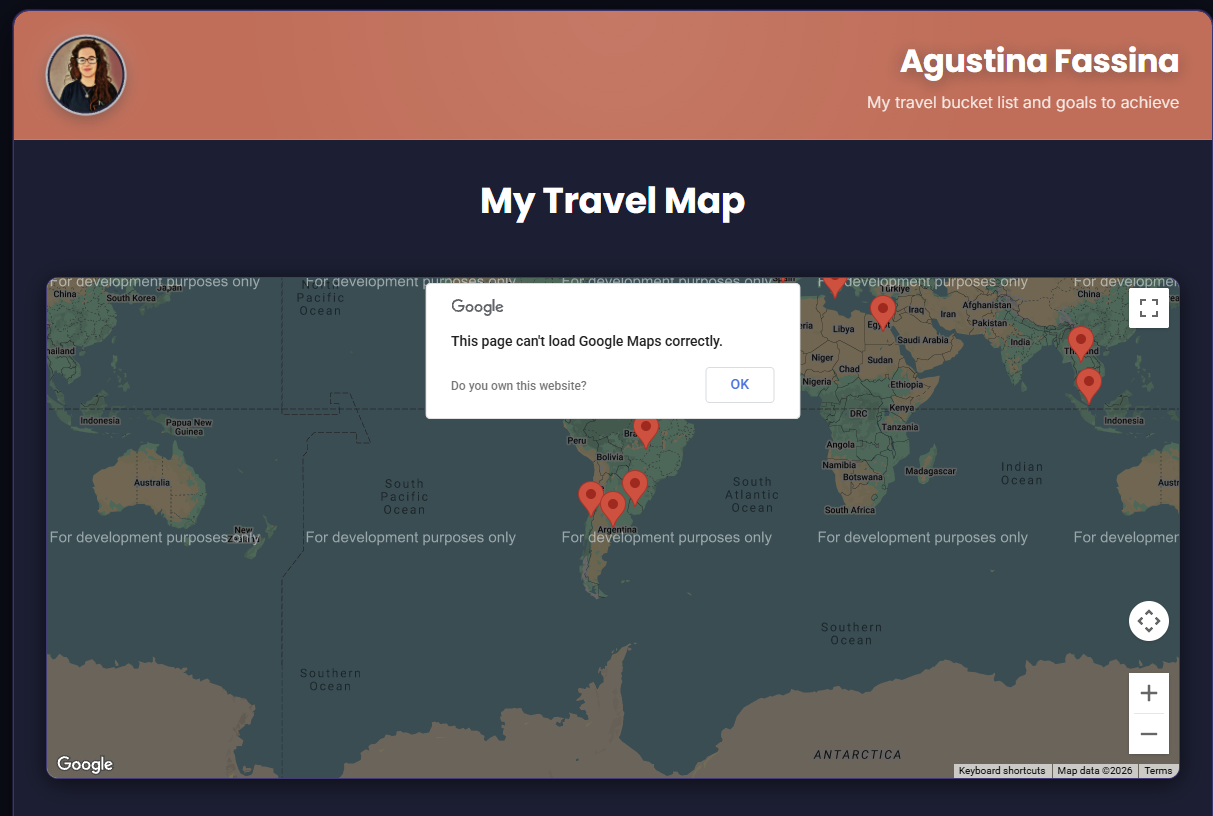
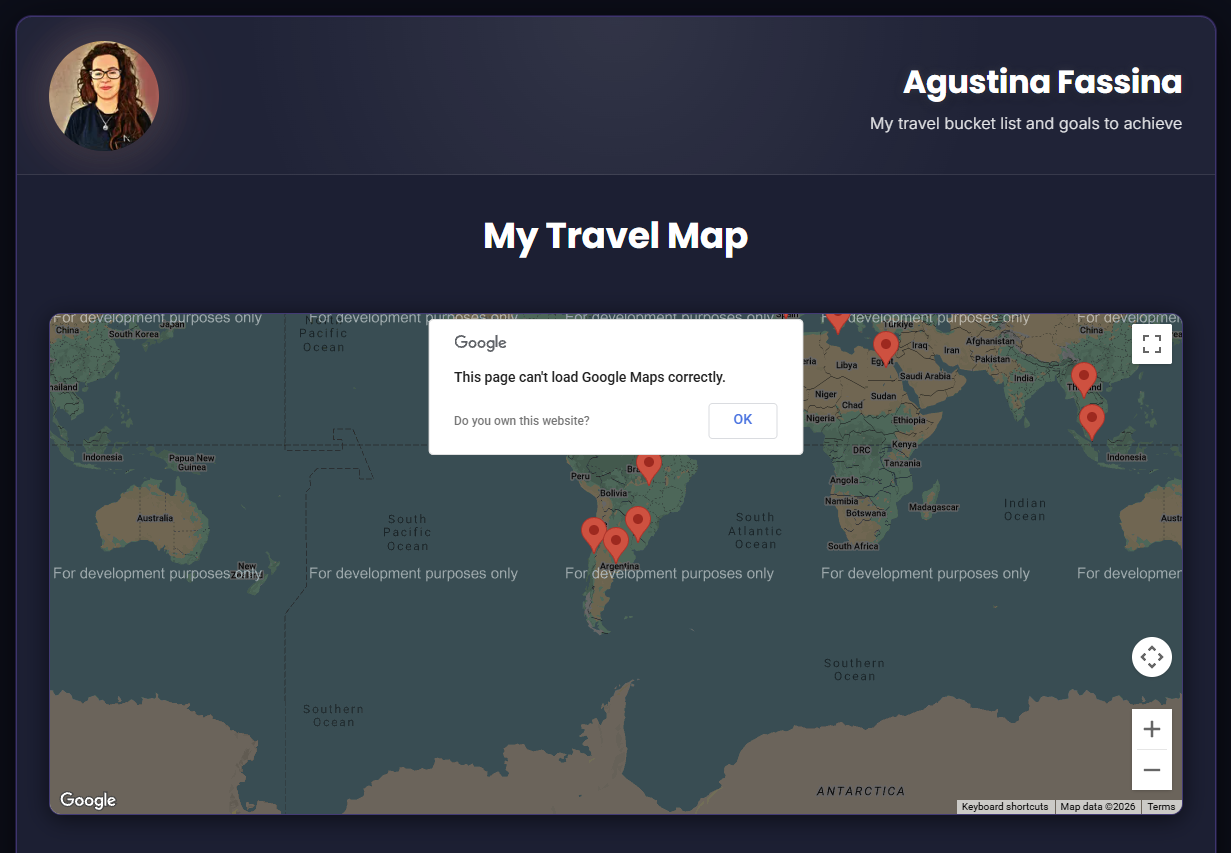
change in the background color

diff --git a/app/globals.css b/app/globals.css
@@ -93,7 +93,6 @@ body {
 
 /* Header Styles */
 .page-header {
-  background: #d66853;
   padding: 1.5rem 2rem;
   color: var(--text-primary);
   position: relative;
@@ -127,21 +126,19 @@ body {
 }
 
 .logo {
-  width: 80px;
-  height: 80px;
+  width: 110px;
+  height: 110px;
   border-radius: 50%;
-  border: 2px solid rgba(255, 255, 255, 0.5);
-  box-shadow: 0 4px 15px rgba(0, 0, 0, 0.3), 0 0 20px rgba(255, 255, 255, 0.2);
+  box-shadow: 0 6px 25px rgba(0, 0, 0, 0.25), 0 0 40px rgba(255, 255, 255, 0.15), 0 0 60px rgba(247, 108, 94, 0.2);
   object-fit: cover;
-  transition: transform 0.3s ease, box-shadow 0.3s ease;
-  background: var(--bg-card);
-  padding: 2px;
+  transition: transform 0.4s cubic-bezier(0.34, 1.56, 0.64, 1), box-shadow 0.4s ease, filter 0.4s ease;
+  filter: brightness(1.05) saturate(1.1);
 }
 
 .logo:hover {
-  transform: scale(1.05);
-  box-shadow: 0 6px 20px rgba(0, 0, 0, 0.4), 0 0 30px rgba(255, 255, 255, 0.3);
-  border-color: rgba(255, 255, 255, 0.7);
+  transform: scale(1.08) translateY(-2px);
+  box-shadow: 0 8px 30px rgba(0, 0, 0, 0.35), 0 0 50px rgba(255, 255, 255, 0.25), 0 0 80px rgba(247, 108, 94, 0.3);
+  filter: brightness(1.1) saturate(1.15);
 }
 
 .header-text {
@@ -889,8 +886,8 @@ body {
   }
 
   .logo {
-    width: 100px;
-    height: 100px;
+    width: 120px;
+    height: 120px;
   }
 
   .content-section {

diff --git a/app/page.tsx b/app/page.tsx
@@ -15,8 +15,8 @@ export default function Home() {
                 className="logo"
                 src="/agus_animada.PNG"
                 alt="Agus"
-                width={80}
-                height={80}
+                width={110}
+                height={110}
                 priority
               />
             </div>
